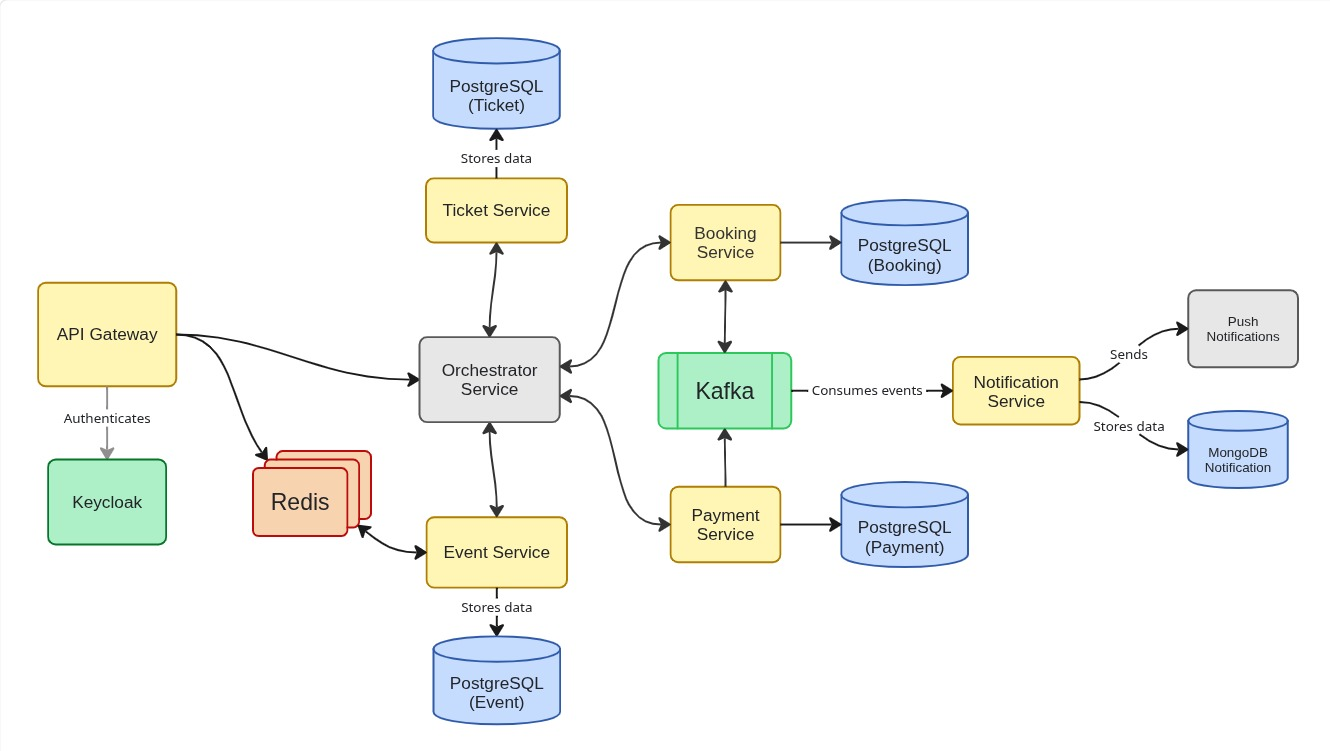
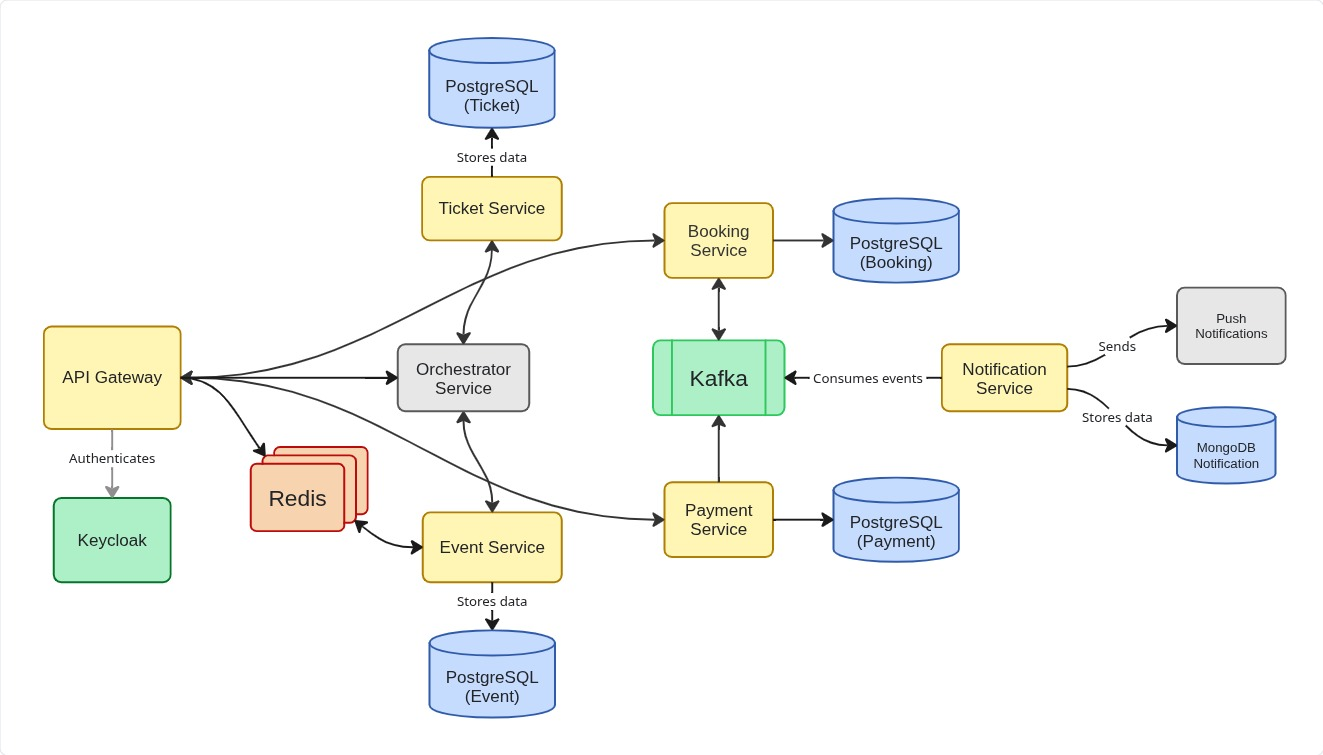
kafka integration GlobalException,Logging,Documentation update

Changed region(s): [[0.1859, 0.0306, 0.9917, 0.98], [0.0, 0.3675, 0.4339, 0.7963]]

diff --git a/README.md b/README.md
@@ -49,7 +49,7 @@ The platform is composed of multiple independent services, including:
 > - [Ticket Service](https://github.com/mukuldaroch/ticket-service)
 > - [Orchestration Service](https://github.com/mukuldaroch/orchestration-service)
 > - [Gateway Service ](https://github.com/mukuldaroch/gateway-service)
-> - [Gateway Service ](https://github.com/mukuldaroch/payment-service)
+> - [Payment Service ](https://github.com/mukuldaroch/payment-service)
 
 ---
 
